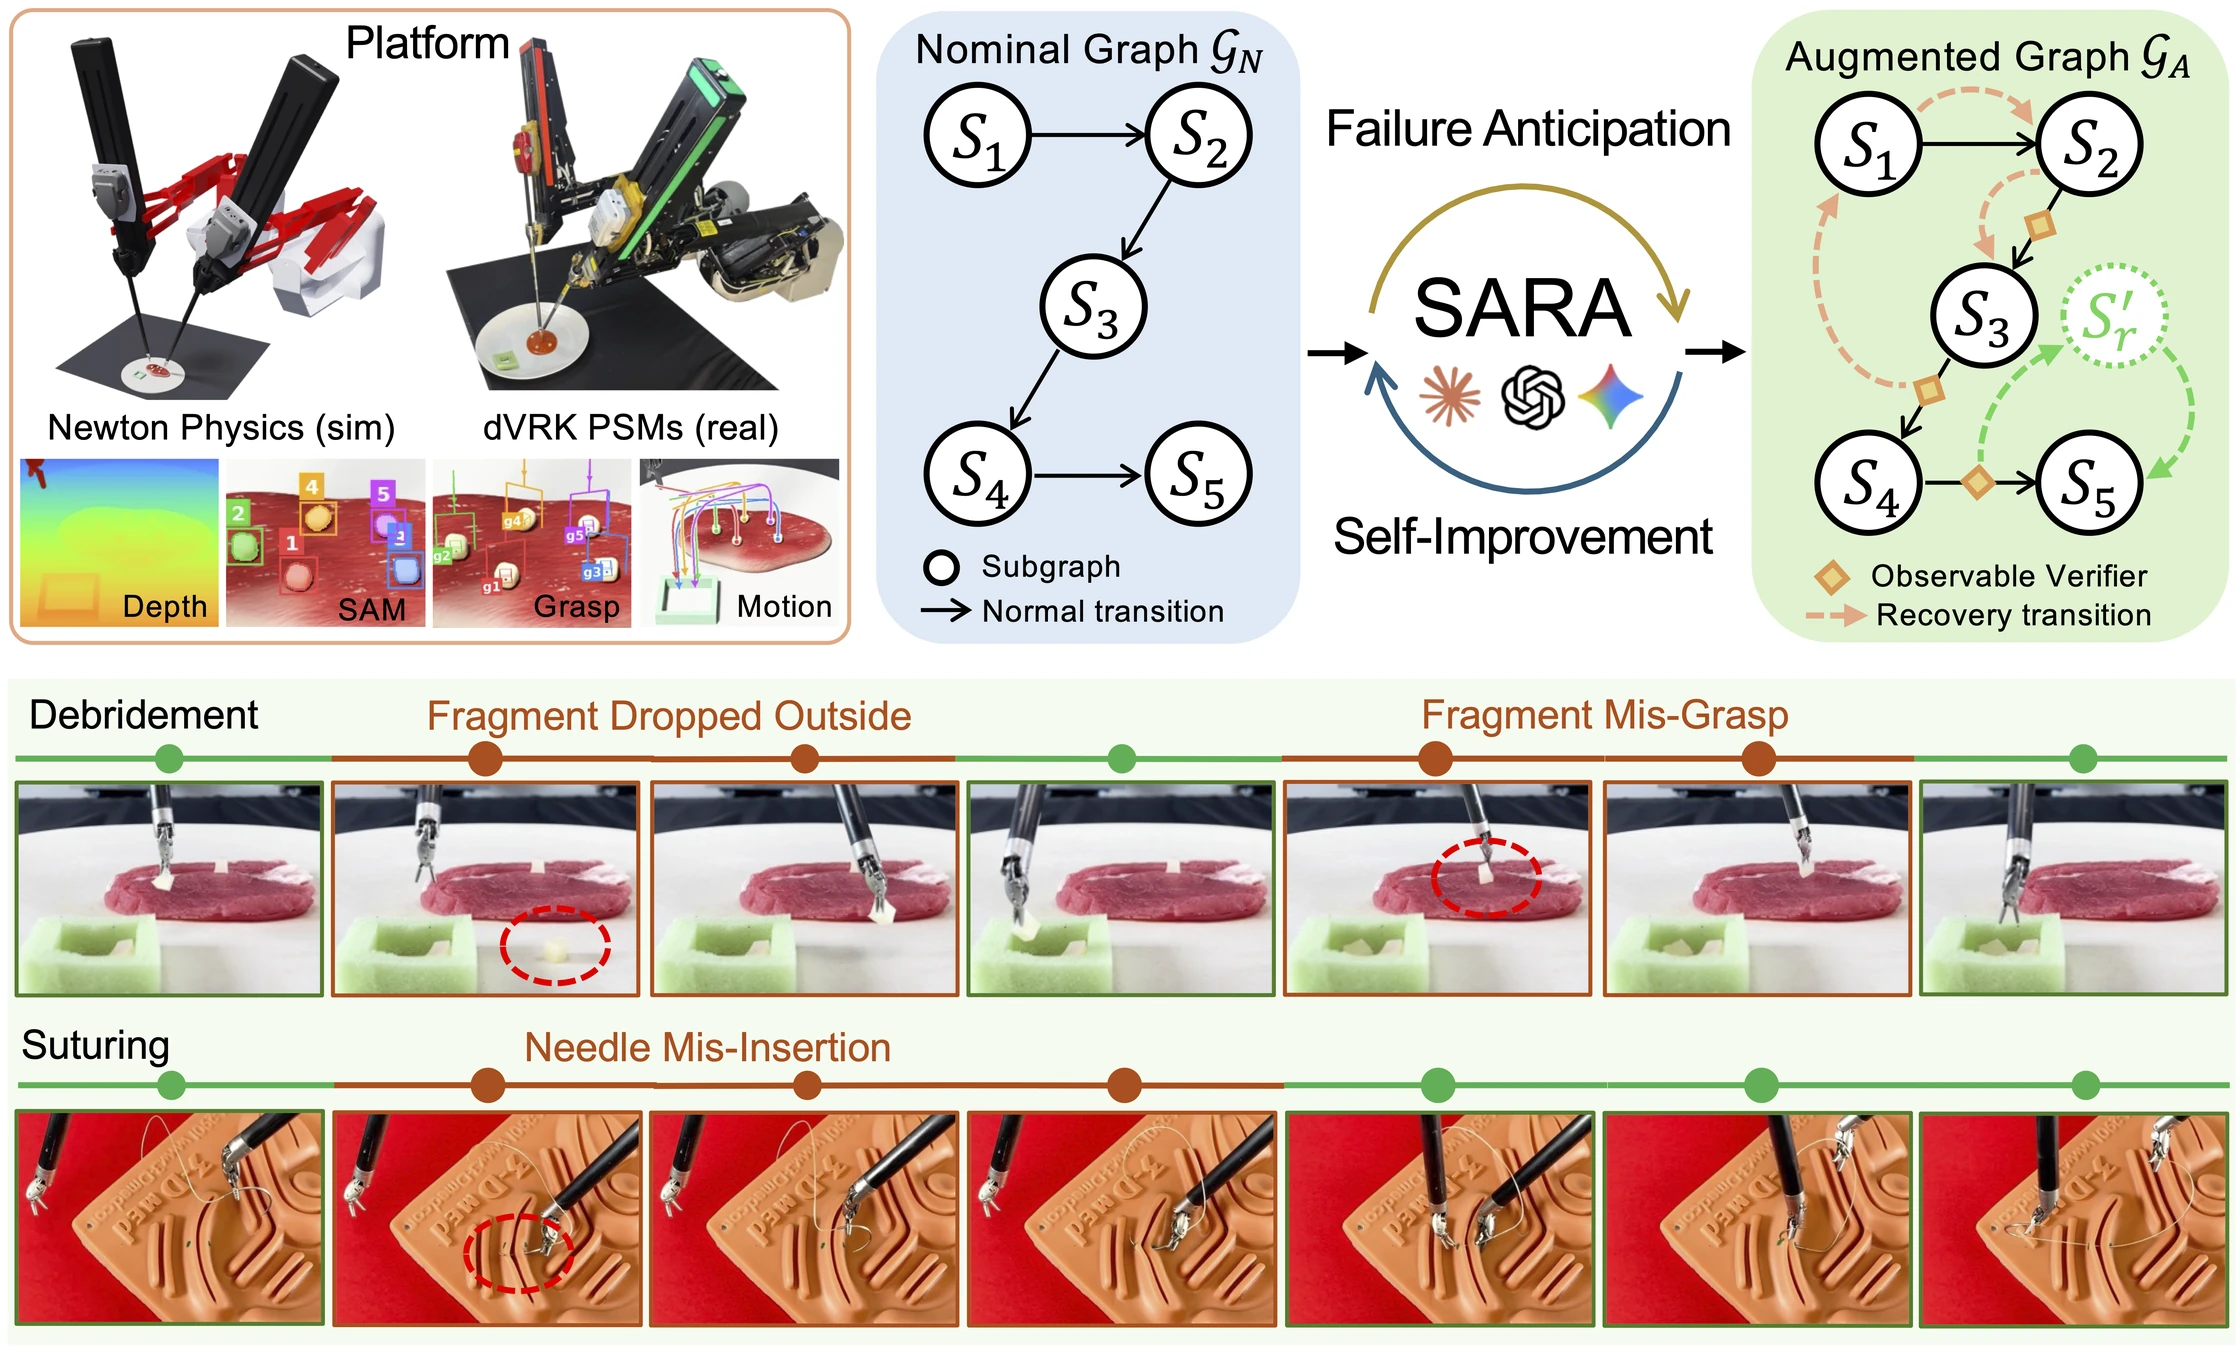
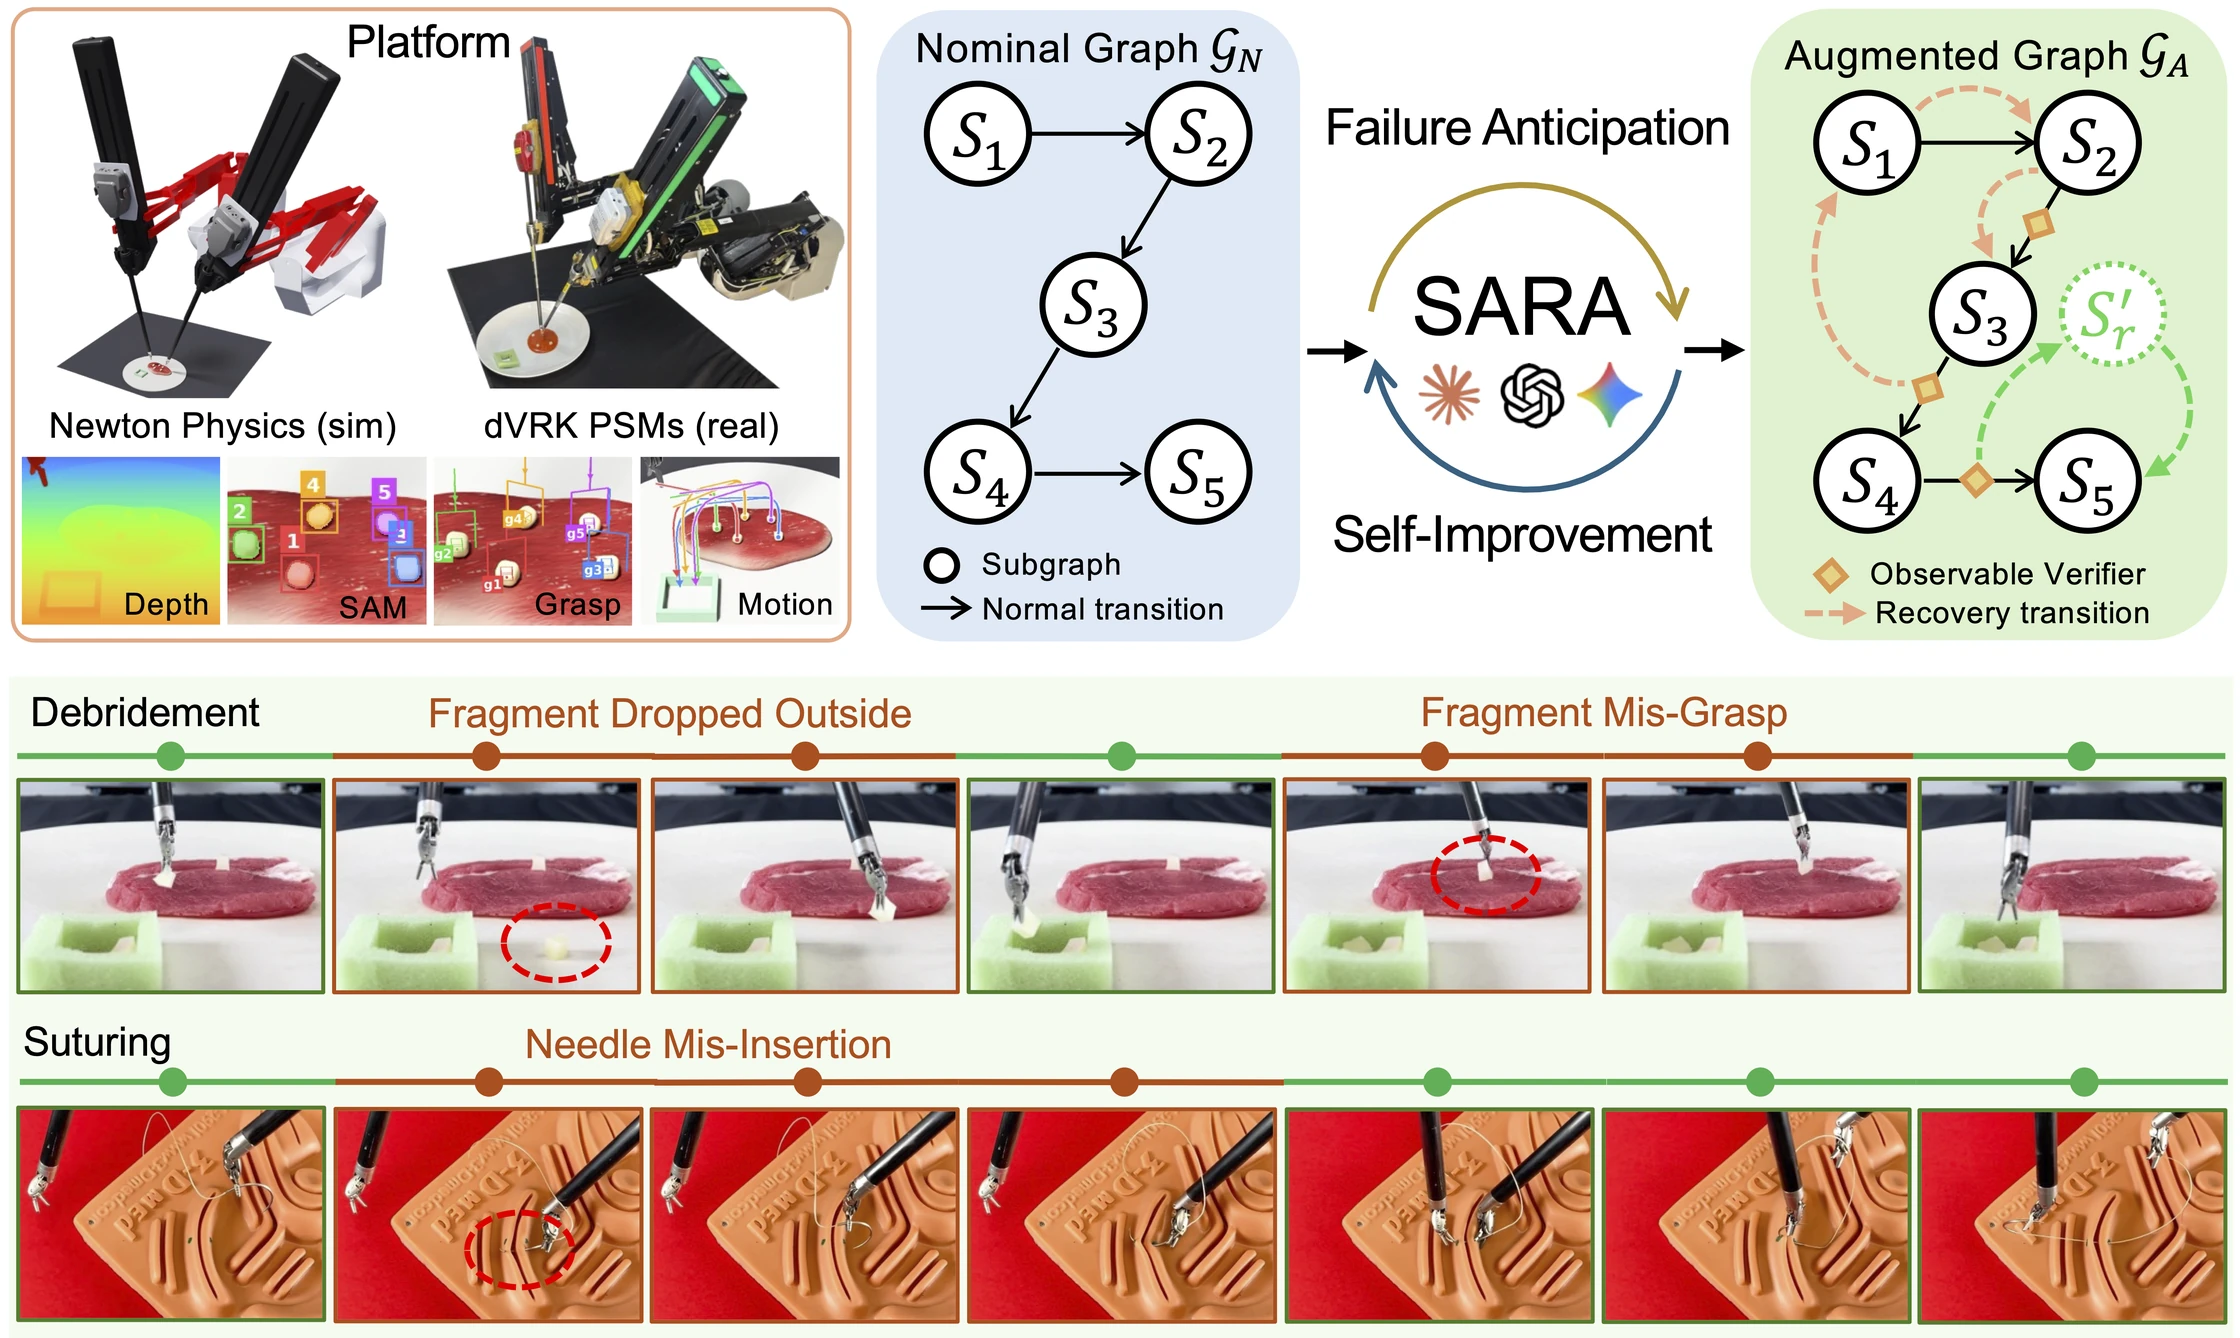
Refresh abstract figure and previews

diff --git a/index.html b/index.html
@@ -14,18 +14,18 @@
 <meta property="og:title" content="SARA: Toward Surgical Agentic Robotics for Resilient Manipulation">
 <meta property="og:description" content="SARA anticipates failure modes, synthesizes observable verifiers, and plans recovery chains for resilient surgical manipulation in simulation and on the physical dVRK platform.">
 <meta property="og:url" content="https://surgical-robotics.github.io/SARA/">
-<meta property="og:image" content="https://surgical-robotics.github.io/SARA/static/images/abstract.png?v=f3d802cdb4bc">
+<meta property="og:image" content="https://surgical-robotics.github.io/SARA/static/images/abstract.png?v=3935923d43dd">
 <meta name="twitter:card" content="summary_large_image">
 <meta name="twitter:title" content="SARA: Toward Surgical Agentic Robotics for Resilient Manipulation">
 <meta name="twitter:description" content="SARA anticipates failure modes, synthesizes observable verifiers, and plans recovery chains for resilient surgical manipulation in simulation and on the physical dVRK platform.">
-<meta name="twitter:image" content="https://surgical-robotics.github.io/SARA/static/images/abstract.png?v=f3d802cdb4bc">
+<meta name="twitter:image" content="https://surgical-robotics.github.io/SARA/static/images/abstract.png?v=3935923d43dd">
 <meta name="citation_title" content="SARA: Toward Surgical Agentic Robotics for Resilient Manipulation">
 <!-- Add confirmed authors, venue, paper URL, and final BibTeX when available. -->
 <link rel="stylesheet" href="static/css/index.css?v=active-group-nav-31">
 <script defer src="static/js/index.js?v=eager-buffer-visible-playback-7"></script>
 <script defer src="static/js/video-states.js?v=deferred-sources-12"></script>
 <script defer src="static/js/media-controls.js?v=6"></script>
-<script type="application/ld+json">{"@context": "https://schema.org", "@type": "ScholarlyArticle", "headline": "SARA: Toward Surgical Agentic Robotics for Resilient Manipulation", "description": "SARA anticipates failure modes, synthesizes observable verifiers, and plans recovery chains for resilient surgical manipulation in simulation and on the physical dVRK platform.", "url": "https://surgical-robotics.github.io/SARA/", "image": "https://surgical-robotics.github.io/SARA/static/images/abstract.png?v=f3d802cdb4bc"}</script>
+<script type="application/ld+json">{"@context": "https://schema.org", "@type": "ScholarlyArticle", "headline": "SARA: Toward Surgical Agentic Robotics for Resilient Manipulation", "description": "SARA anticipates failure modes, synthesizes observable verifiers, and plans recovery chains for resilient surgical manipulation in simulation and on the physical dVRK platform.", "url": "https://surgical-robotics.github.io/SARA/", "image": "https://surgical-robotics.github.io/SARA/static/images/abstract.png?v=3935923d43dd"}</script>
 </head>
 <body>
 <div class="reading-progress" aria-hidden="true"><span></span></div>
@@ -52,7 +52,7 @@
 <section class="section overview" id="abstract"><div class="container">
 <div class="section-heading"><h2>Abstract</h2></div>
 <div class="abstract-copy"><p>Augmented dexterity promises to relieve surgeon workload and improve surgical performance, yet it still requires expert algorithmic engineering for each manipulation task. Can emerging coding agents deliver augmented dexterity across tasks, while remaining reliable under failure? In this work, we introduce SARA (Surgical Agent for Resilient Autonomy), an agentic surgical robotics framework that executes diverse manipulation tasks autonomously and resiliently. Given a nominal task graph composed of reusable surgical skills, SARA proactively anticipates how the skills may fail and induces those failures in a physics-based sandbox. From the induced and naturally occurring failures, it writes observable verifiers for the skills and proposes failure-specific recovery strategies, either by re-executing upstream skills of the nominal graph or by escalating to the broader skill library. SARA then rehearses the candidate augmented graph in the sandbox, refining the ineffective strategies in a self-improvement loop, and retains only the validated verifiers and recoveries in the final augmented graph. We evaluate SARA on 8 surgical tasks in Newton-based simulation and 6 tasks on a physical da Vinci robot.</p></div>
-<figure class="research-figure"><button class="figure-zoom" type="button" data-image="static/images/abstract.png?v=f3d802cdb4bc" aria-label="Enlarge SARA system overview"><img src="static/images/abstract-1120.webp?v=99c4cd5a6f76" srcset="static/images/abstract-1120.webp?v=99c4cd5a6f76 1120w, static/images/abstract-2240.webp?v=039d5fef3cd6 2240w" sizes="(max-width: 760px) calc(100vw - 36px), (max-width: 1184px) calc(100vw - 64px), 1120px" alt="SARA system overview: a nominal surgical skill graph is augmented with observable verifiers and recovery chains through failure anticipation and self-improvement in the Newton dVRK sandbox. Debridement and suturing sequences show recovery from dropped fragments, missed grasps, and needle insertion failures on the physical robot." width="2240" height="1347" loading="eager" fetchpriority="high" decoding="async"><span class="zoom-hint">Enlarge figure ↗</span></button><figcaption><strong>SARA surgical agentic system overview.</strong> Starting from a nominal graph <math aria-label="G subscript N"><msub><mi>𝒢</mi><mi>N</mi></msub></math> of reusable surgical skills, SARA proactively anticipates failure modes, synthesizes observable verifiers, and plans corresponding recovery chains to construct an augmented directed graph <math aria-label="G subscript A"><msub><mi>𝒢</mi><mi>A</mi></msub></math>. Through iterative self-improvement and validation in a Newton physics-based dVRK sandbox, SARA retains validated verifiers and recovery chains before deploying the augmented graph on the physical dVRK platform for resilient task execution. The debridement and suturing sequences illustrate recovery from dropped fragments, missed grasps, and needle insertion failures.</figcaption></figure>
+<figure class="research-figure"><button class="figure-zoom" type="button" data-image="static/images/abstract.png?v=3935923d43dd" aria-label="Enlarge SARA system overview"><img src="static/images/abstract-1120.webp?v=72ccdf5ffa5b" srcset="static/images/abstract-1120.webp?v=72ccdf5ffa5b 1120w, static/images/abstract-2240.webp?v=b08d77750810 2240w" sizes="(max-width: 760px) calc(100vw - 36px), (max-width: 1184px) calc(100vw - 64px), 1120px" alt="SARA system overview: a nominal surgical skill graph is augmented with observable verifiers and recovery chains through failure anticipation and self-improvement in the Newton dVRK sandbox. Debridement and suturing sequences show recovery from dropped fragments, missed grasps, and needle insertion failures on the physical robot." width="2240" height="1338" loading="eager" fetchpriority="high" decoding="async"><span class="zoom-hint">Enlarge figure ↗</span></button><figcaption><strong>SARA surgical agentic system overview.</strong> Starting from a nominal graph <math aria-label="G subscript N"><msub><mi>𝒢</mi><mi>N</mi></msub></math> of reusable surgical skills, SARA proactively anticipates failure modes, synthesizes observable verifiers, and plans corresponding recovery chains to construct an augmented directed graph <math aria-label="G subscript A"><msub><mi>𝒢</mi><mi>A</mi></msub></math>. Through iterative self-improvement and validation in a Newton physics-based dVRK sandbox, SARA retains validated verifiers and recovery chains before deploying the augmented graph on the physical dVRK platform for resilient task execution. The debridement and suturing sequences illustrate recovery from dropped fragments, missed grasps, and needle insertion failures.</figcaption></figure>
 </div></section>
 <section class="section method-section" id="method"><div class="container">
 <p class="method-question">Can emerging coding agents deliver augmented dexterity across diverse surgical tasks and remain reliable when failures occur?</p>

diff --git a/README.md b/README.md
@@ -115,7 +115,7 @@ question introduces Method: "Can emerging coding agents deliver augmented dexter
 across diverse surgical tasks and remain reliable when failures occur?" The question shares
 the figure's full width, with justified text and no bold emphasis. The updated overview
 figure appears in full, including the debridement and suturing failure-recovery
-sequences. Responsive 1120px/2240px WebP previews (approximately 140/337 KB) load
+sequences. Responsive 1120px/2240px WebP previews (approximately 141/335 KB) load
 eagerly with high priority instead of the 9.7 MB PNG. The previews preserve the
 source color profile. Clicking first shows the cached preview, then replaces it
 with the original full-resolution image once loaded. Both research figures have
@@ -188,7 +188,7 @@ All other intervals show normal execution.
 
 ## Media preparation
 
-- Overview original: `static/images/abstract.png` (5536×3328, unchanged; loaded on zoom and used by social metadata).
+- Overview original: `static/images/abstract.png` (5545×3313, unchanged; loaded on zoom and used by social metadata).
 - Overview previews: `static/images/abstract-1120.webp` and `static/images/abstract-2240.webp` (responsive, content-versioned URLs).
 - Method: `static/images/sara_pipeline.png`.
 - Video posters: `static/images/posters/`.
